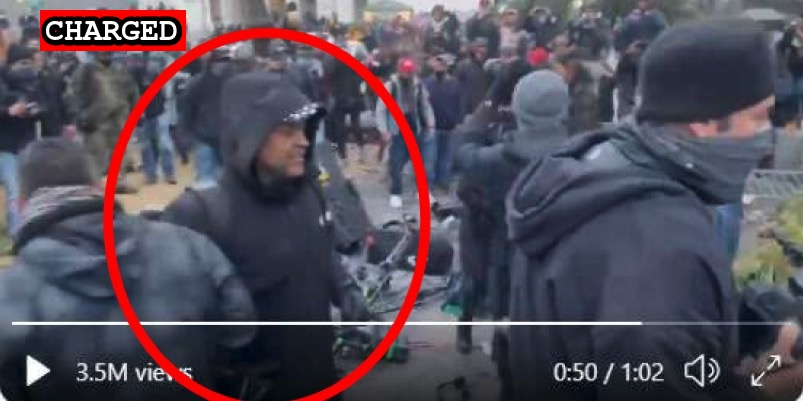
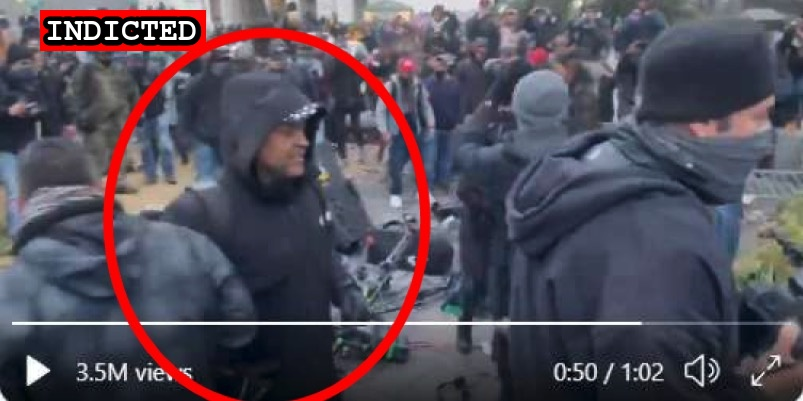
Shane Woods indictment

Changed region(s): [[0.0311, 0.0, 0.2802, 0.1496]]

diff --git a/docs/_suspects/shane-woods.md b/docs/_suspects/shane-woods.md
@@ -3,13 +3,14 @@ name: Shane Woods
 lastName: Woods
 aka: Shane Castleman
 residence: Illinois
-status: Charged
+status: Indicted
 date: 2021-06-21
 charged: 2021-06-21
-indicted:
-convicted: 
-sentenced: 
-dismissed: 
+indicted: 2021-07-16
+convicted:
+sentenced:
+dismissed:
+deceased:
 age: 43
 occupation:
 affiliations:
@@ -29,5 +30,7 @@ layout: suspect
 published: true
 charges:
 ---
+
 - [News Report](https://www.nbcnews.com/news/us-news/illinois-man-charged-capitol-riot-first-accused-assaulting-media-member-n1272403)
 - [Statement of Facts](https://www.justice.gov/usao-dc/case-multi-defendant/file/1405966/download)
+- [Indictment](https://www.justice.gov/usao-dc/case-multi-defendant/file/1413656/download)

diff --git a/docs/_suspects/michael-brock.md b/docs/_suspects/michael-brock.md
@@ -1,0 +1,35 @@
+---
+name: Michael Brock
+lastName: Brock
+aka:
+residence:
+status: Charged
+date: 2021-07-14
+charged: 2021-07-14
+indicted:
+convicted:
+sentenced:
+dismissed:
+deceased:
+age:
+occupation:
+affiliations:
+jurisdiction: Federal
+image: /images/preview/michael-brock.jpg
+suspect: michael-brock.jpg
+booking:
+courtroom:
+courthouse:
+raid:
+perpwalk:
+quote:
+title: Michael Brock charged on July 14, 2021
+description: Click for latest case details. Suspects innocent until proven guilty.
+author: seditiontrack
+layout: suspect
+published: false
+charges:
+---
+
+- [News Report]()
+- [Statement of Facts](https://www.justice.gov/usao-dc/case-multi-defendant/file/1413551/download)

diff --git a/docs/_suspects/caleb-berry.md b/docs/_suspects/caleb-berry.md
@@ -30,7 +30,8 @@ layout: suspect
 published: true
 charges:
 ---
-
 - [News Story](https://www.rawstory.com/caleb-berry/)
 - [Information](/filings/caleb-berry-information.pdf)
 - [DOJ Statement (Twitter)](https://twitter.com/FBIWFO/status/1417871768736370693)
+- [Plea Agreement](https://www.justice.gov/usao-dc/case-multi-defendant/file/1413726/download)
+- [Statement of Facts](https://www.justice.gov/usao-dc/case-multi-defendant/file/1413731/download)
